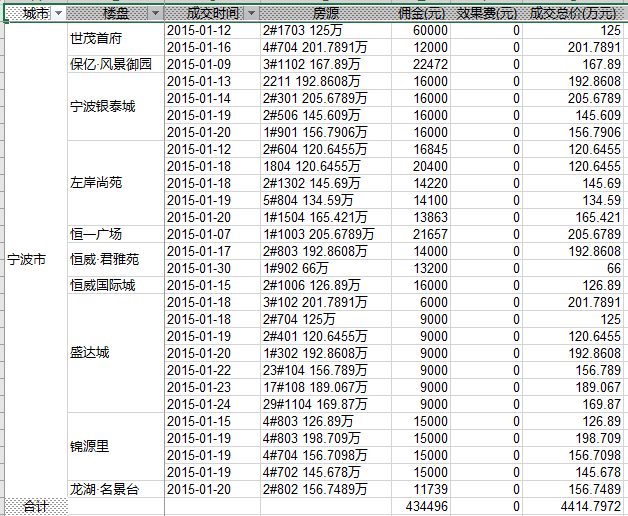
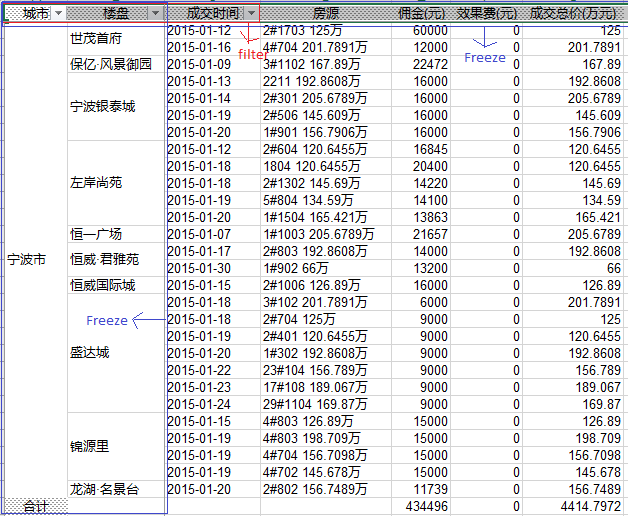
Update the REAMDE & demo image

diff --git a/README.md b/README.md
@@ -1,5 +1,5 @@
 # Functionality
-The extensions of NPOI, that use attributes to control enumerable object export to excel behaviors.
+The extensions of NPOI, which use attributes to control how to save IEnumerable<T> to excel.
 - Use attribute to control excel column name, and cell index; 
 - Use attribute to control excel cells SUM and cells MERGE behaviors; 
 - Use attribute to control excel filter behaviors 
@@ -10,11 +10,11 @@ The extensions of NPOI, that use attributes to control enumerable object export 
 
         PM> Install-Package NPOI.Extension
 	
-2. Using NPOI.Extension in code
+2. Reference NPOI.Extension in code
 
         using NPOI.Extension;
 	
-3. Applying attribute the entity
+3. Apply attribute to the specified entity
 
         [Filter(FirstCol = 0, FirstRow = 0, LastCol = 2)]
         [Freeze(ColSplit = 2, RowSplit = 1, LeftMostColumn = 2, TopRow = 1)]
@@ -58,7 +58,6 @@ The extensions of NPOI, that use attributes to control enumerable object export 
 
         // save the excel file
         reports.ToExcel(@"C:\demo.xls");
-        }
 
 5. NPOI.Extension demo
 
